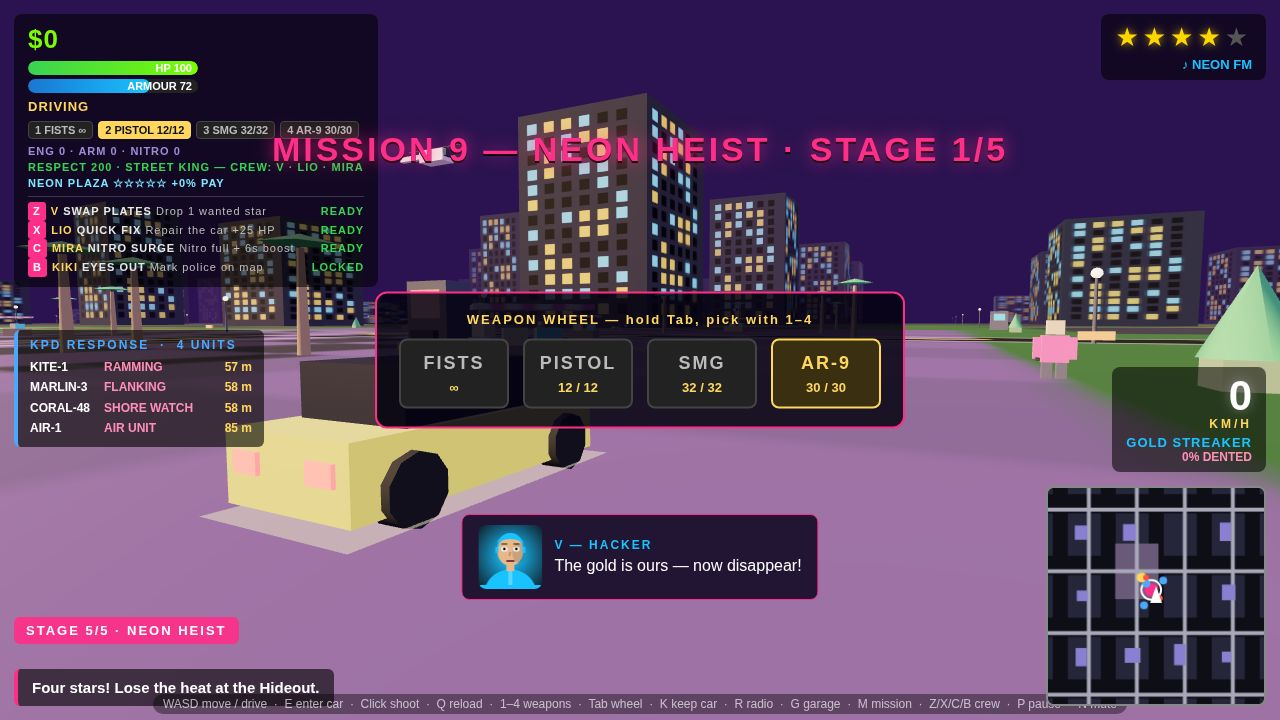
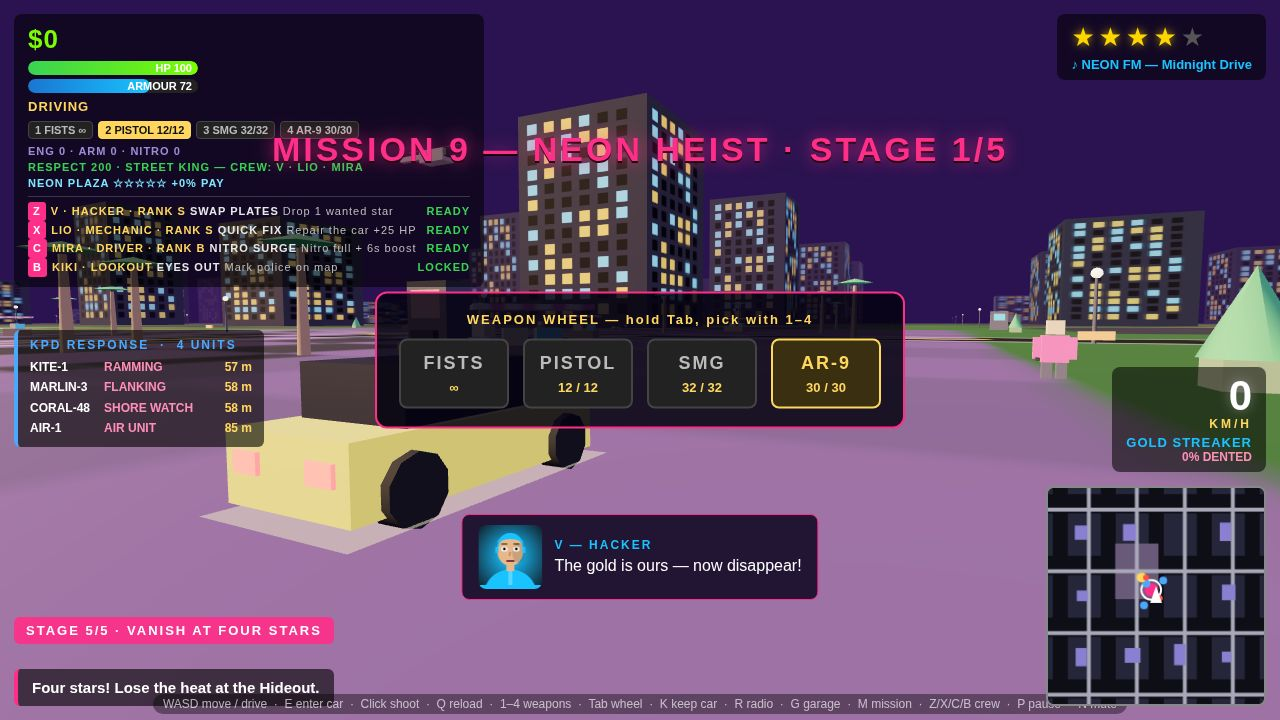
Final pass vs r1: named mission stages, crew rank letters, radio song lines, denser cover

Changed region(s): [[0.0312, 0.0, 0.375, 0.3972], [0.8125, 0.0, 0.9688, 0.1222], [0.0938, 0.8556, 0.2812, 0.9167]]

diff --git a/game/src/shots.js b/game/src/shots.js
@@ -64,9 +64,10 @@ const NV_SHOTS = {
         G.scene.add(c.group); G.cars.push(c); NV_POLICE.cruisers.push(c);
       });
       // Heli overhead + a roadblock ahead on the beach road. The heli
-      // flies low (orbitH) so it reads in frame from the chase camera.
+      // flies low and close (orbitH 12, orbitR 28) so it reads big in
+      // frame from the chase camera, searchlight on the road.
       const heli = NV_ENTITIES.makeHeli(G.scene);
-      heli.callsign = 'AIR-1'; heli.role = 'AIR UNIT'; heli.angle = 4.4; heli.orbitH = 14; heli.orbitR = 35; heli.orbitHold = true;
+      heli.callsign = 'AIR-1'; heli.role = 'AIR UNIT'; heli.angle = 4.4; heli.orbitH = 12; heli.orbitR = 28; heli.orbitHold = true;
       NV_POLICE.heli = heli;
       const rb1 = NV_ENTITIES.makeCar(0xf2f2f2, 'police');
       rb1.group.position.set(-58, 0, 726); rb1.yaw = Math.PI / 2; rb1.group.rotation.y = rb1.yaw;
@@ -82,14 +83,20 @@ const NV_SHOTS = {
       this.stageCrowd(G, [
         [-46, 724, 0], [-32, 738, 0], [28, 722, Math.PI], [44, 738, Math.PI],
         [-70, 730, 0], [60, 730, Math.PI],
+        // Foreground traffic in the lower frame, either side of the hero
+        // car, so the bottom half of the cover is street, not bare asphalt.
+        [-24, 750, 0], [26, 749, Math.PI],
       ], [
         [-52, 694], [-38, 696], [-20, 693], [8, 695], [24, 694], [38, 696], [52, 693], [-8, 697],
         [-64, 700], [70, 700],
+        [-28, 749], [30, 750], [-16, 750], [22, 749],
       ]);
+      // Planters along the beach road by the camera, filling the near corners.
+      G.world.addPlanter(-30, 748); G.world.addPlanter(34, 747); G.world.addBench(-36, 744, Math.PI / 2);
       // The cover frame shows the new HUD: armour bar, crew panel,
-      // stage chip (m1, stage 2/2) and the speedo on the AURA GT.
+      // stage chip (m1, stage 2/2 · LOSE THE HEAT) and the speedo on the AURA GT.
       G.player.armour = 55;
-      G.mission = { def: { id: 'm1', name: 'FAST BREAK', stages: ['go', 'escape'] }, phase: 'escape', target: { x: -900, z: 500 } };
+      G.mission = { def: { id: 'm1', name: 'FAST BREAK', stages: ['go', 'escape'], stageNames: ['STEAL THE PROTOTYPE', 'LOSE THE HEAT'] }, phase: 'escape', target: { x: -900, z: 500 } };
       G.world.setBeacon(-900, 500, 0x39d353); // Hideout: the objective, so the minimap marker points there
       NV_HUD.setObjective(G, 'Lose the heat! Bring the AURA GT to the Hideout.');
       setCam(10, 2.6, 752, -6, 1.2, 741);
@@ -145,9 +152,9 @@ const NV_SHOTS = {
       // Fill the near-side grass between the camera and the avenue.
       G.world.addPlanter(-95, 20); G.world.addPlanter(-115, 22); G.world.addBench(-70, 18, Math.PI / 2);
       // The chase frame shows the new HUD too: armour, crew panel,
-      // stage chip (m3, stage 2/2) and the speedo on the AURA GT.
+      // stage chip (m3, stage 2/2 · SUNSET RUN) and the speedo on the AURA GT.
       G.player.armour = 72;
-      G.mission = { def: { id: 'm3', name: 'GOLDEN HOUR SCORE', stages: ['go', 'drive'] }, phase: 'drive', target: { x: -900, z: 500 } };
+      G.mission = { def: { id: 'm3', name: 'GOLDEN HOUR SCORE', stages: ['go', 'drive'], stageNames: ['GET A CAR', 'SUNSET RUN'] }, phase: 'drive', target: { x: -900, z: 500 } };
       G.world.setBeacon(-900, 500, 0x39d353);
       NV_HUD.setObjective(G, 'Lose the heat! Bring the AURA GT to the Hideout.');
       setCam(-84, 4, 14, -108, 1.5, 0);

diff --git a/game/src/config.js b/game/src/config.js
@@ -44,60 +44,70 @@ const NV_CONFIG = {
     {
       id: 'm1', name: 'FAST BREAK', district: 'garage',
       stages: ['go', 'escape'],
+      stageNames: ['STEAL THE PROTOTYPE', 'LOSE THE HEAT'],
       brief: 'Steal the AURA GT prototype from the garage, then lose the heat at the Hideout.',
       reward: 2500,
     },
     {
       id: 'm2', name: 'DATA BREACH', district: 'plaza',
       stages: ['go', 'hack'],
+      stageNames: ['REACH THE ATM', 'HOLD THE HACK'],
       brief: 'Protect V while she hacks the Central ATM. Survive 90 seconds of security waves.',
       reward: 4000,
     },
     {
       id: 'm3', name: 'GOLDEN HOUR SCORE', district: 'beach',
       stages: ['go', 'drive'],
+      stageNames: ['GET A CAR', 'SUNSET RUN'],
       brief: 'Sunset escape: drive the beach road to the Marina boat while the heli hunts you.',
       reward: 7500,
     },
     {
       id: 'm4', name: 'COURIER INTERCEPT', district: 'beach',
       stages: ['go', 'deliver'],
+      stageNames: ['RUN DOWN THE COURIER', 'DROP THE PACKAGE'],
       brief: 'A rival courier is running Syndicate cash down the beach road. Grab the package and drop it at Neon Plaza.',
       reward: 3500,
     },
     {
       id: 'm5', name: 'VAULT CHAIN', district: 'mixed',
       stages: ['go', 'terminal 1', 'terminal 2', 'terminal 3'],
+      stageNames: ['REACH THE TERMINAL', 'DRAIN THE ATM', 'DRAIN THE GARAGE', 'DRAIN THE DOCK'],
       brief: 'Drain three vault terminals across the city — Central ATM, garage yard, marina dock. Hold E at each one.',
       reward: 5000,
     },
     {
       id: 'm6', name: 'RIVAL RACE', district: 'plaza',
       stages: ['checkpoint 1', 'checkpoint 2', 'checkpoint 3', 'checkpoint 4'],
+      stageNames: ['GREEN LIGHT', 'NEON STRAIGHT', 'PLAZA SWEEP', 'FINAL STRETCH'],
       brief: 'A rival crew driver challenges you to a street race: four checkpoints, first one there wins. Get a car.',
       reward: 5500,
     },
     {
       id: 'm7', name: 'SKYLINE GETAWAY', district: 'beach',
       stages: ['go', 'run'],
+      stageNames: ['HOLD THE LINE', 'BREAK FOR THE HIDEOUT'],
       brief: 'Four stars and nowhere to hide. Survive 60 seconds of heat, then reach the Hideout.',
       reward: 6500,
     },
     {
       id: 'm8', name: 'THE PAYOFF', district: 'marina',
       stages: ['go', 'drive'],
+      stageNames: ['TAKE THE TRUCK', 'FIVE-STAR DELIVERY'],
       brief: 'The final job: drive the payoff truck to the Marina boat under five stars. Do not lose the truck.',
       reward: 10000,
     },
     {
       id: 'm9', name: 'NEON HEIST', district: 'plaza',
       stages: ['scout', 'disable', 'channel', 'grab', 'escape'],
+      stageNames: ['CASE THE PANEL', 'KILL THE SECURITY', 'CRACK THE VAULT', 'GRAB THE GOLD', 'VANISH AT FOUR STARS'],
       brief: 'A four-phase heist at Neon Plaza: scout the panel, kill the security, grab the gold car and run at four stars.',
       reward: 8000,
     },
     {
       id: 'm10', name: 'SYNDICATE FINALE', district: 'marina',
       stages: ['go', 'showdown', 'drive', 'run'],
+      stageNames: ['CHASE THE BOSS', 'THE SHOWDOWN', 'TAKE HIS CAR', 'FIVE-STAR FINALE'],
       brief: 'The boss himself. Chase his car through three checkpoints, take down his guards, and deliver his ride to the Marina.',
       reward: 12000,
     },

diff --git a/game/src/audio.js b/game/src/audio.js
@@ -107,27 +107,43 @@ const NV_AUDIO = {
 
   // --- Radio: three WebAudio synth stations, cycled with R. A 16-step
   // sequencer plays a quiet bass + lead pattern per station; the main loop
-  // calls updateRadio(dt) every frame.
+  // calls updateRadio(dt) every frame. Each station has its own playlist
+  // (r1 style: "OMBO 98.4 — Island Pop"); the song turns over every
+  // ~40 seconds of play.
   radio: {
-    station: 0, step: 0, nextT: 0,
+    station: 0, step: 0, nextT: 0, songIdx: 0, songStart: 0, songLen: 40,
     stations: [
-      { name: 'NEON FM', bpm: 112, wave: 'sawtooth', bass: [55, 0, 55, 0, 65.4, 0, 55, 0, 49, 0, 55, 0, 73.4, 0, 65.4, 0], lead: [220, 0, 0, 261.6, 0, 0, 329.6, 0, 0, 0, 392, 0, 329.6, 0, 261.6, 0] },
-      { name: 'VICE 88', bpm: 100, wave: 'square', bass: [82.4, 0, 98, 0, 82.4, 0, 110, 0, 82.4, 0, 98, 0, 123.5, 0, 98, 0], lead: [0, 0, 164.8, 0, 0, 196, 0, 0, 0, 0, 164.8, 0, 0, 246.9, 0, 0] },
-      { name: 'STATIC 99', bpm: 84, wave: 'triangle', bass: [65.4, 0, 0, 0, 98, 0, 0, 0, 82.4, 0, 0, 0, 110, 0, 98, 0], lead: [130.8, 0, 164.8, 0, 196, 0, 164.8, 0, 130.8, 0, 196, 0, 246.9, 0, 220, 0] },
+      { name: 'NEON FM', bpm: 112, wave: 'sawtooth', songs: ['Midnight Drive', 'Chrome Sunset', 'Palm Static', 'Neon Rain'], bass: [55, 0, 55, 0, 65.4, 0, 55, 0, 49, 0, 55, 0, 73.4, 0, 65.4, 0], lead: [220, 0, 0, 261.6, 0, 0, 329.6, 0, 0, 0, 392, 0, 329.6, 0, 261.6, 0] },
+      { name: 'VICE 88', bpm: 100, wave: 'square', songs: ['Vice City Lights', 'Gold Chain', 'Turbo Heart', 'Night Pursuit'], bass: [82.4, 0, 98, 0, 82.4, 0, 110, 0, 82.4, 0, 98, 0, 123.5, 0, 98, 0], lead: [0, 0, 164.8, 0, 0, 196, 0, 0, 0, 0, 164.8, 0, 0, 246.9, 0, 0] },
+      { name: 'STATIC 99', bpm: 84, wave: 'triangle', songs: ['Island Pop', 'Beach Static', 'Low Tide', 'Salt Air'], bass: [65.4, 0, 0, 0, 98, 0, 0, 0, 82.4, 0, 0, 0, 110, 0, 98, 0], lead: [130.8, 0, 164.8, 0, 196, 0, 164.8, 0, 130.8, 0, 196, 0, 246.9, 0, 220, 0] },
     ],
   },
   radioName() { return this.radio.stations[this.radio.station].name; },
+  currentSong() {
+    const st = this.radio.stations[this.radio.station];
+    return st.songs[this.radio.songIdx % st.songs.length];
+  },
+  radioLine() { return this.radioName() + ' — ' + this.currentSong(); },
   cycleRadio() {
     this.radio.station = (this.radio.station + 1) % this.radio.stations.length;
     this.radio.step = 0;
     this.radio.nextT = 0;
+    this.radio.songIdx = 0;
+    this.radio.songStart = 0;
     return this.radioName();
   },
   updateRadio() {
     if (!this.ctx || this.muted || this.ctx.state !== 'running') return;
     const st = this.radio.stations[this.radio.station];
-    const stepDur = 60 / st.bpm / 4;
     const now = this.ctx.currentTime;
+    // Turn the song over after songLen seconds of play (init the clock
+    // on the first running tick so a suspended context never skips).
+    if (!this.radio.songStart) { this.radio.songStart = now; }
+    else if (now - this.radio.songStart > this.radio.songLen) {
+      this.radio.songIdx = (this.radio.songIdx + 1) % st.songs.length;
+      this.radio.songStart = now;
+    }
+    const stepDur = 60 / st.bpm / 4;
     if (this.radio.nextT < now - 0.2) this.radio.nextT = now + 0.05;
     let guard = 0;
     while (this.radio.nextT < now + 0.12 && guard < 8) {

diff --git a/game/src/hud.js b/game/src/hud.js
@@ -297,7 +297,7 @@ const NV_HUD = {
     const u = G.upgrades || { engine: 0, armor: 0, nitro: 0 };
     const cur = G.player.inCar && G.player.car && G.player.car.owned ? G.player.car.owned.upgrades : u;
     e.upgrades.textContent = 'ENG ' + cur.engine + ' · ARM ' + cur.armor + ' · NITRO ' + cur.nitro;
-    e.radio.textContent = '♪ ' + NV_AUDIO.radioName();
+    e.radio.textContent = '♪ ' + NV_AUDIO.radioLine();
     // Respect + crew, and the district the player is standing in.
     e.respect.textContent = NV_CREW.hudLine(G);
     e.district.textContent = NV_CREW.districtLine(G);
@@ -316,7 +316,7 @@ const NV_HUD = {
     } else {
       e.speedo.classList.add('hidden');
     }
-    // Crew-ability panel: each member, key, ability and cooldown.
+    // Crew-ability panel: each member, key, ability, rank letter and cooldown.
     e.crewpanel.innerHTML = Object.keys(NV_CREW.members).map((key) => {
       const m = NV_CREW.members[key];
       const a = NV_CREW.abilities[key];
@@ -324,8 +324,9 @@ const NV_HUD = {
       const cd = Math.ceil((G.crewCds || {})[key] || 0);
       const state = !got ? 'LOCKED' : cd > 0 ? cd + 's' : 'READY';
       const cls = cd > 0 ? 'crow cd' : 'crow';
+      const rank = got ? ' · RANK ' + NV_CREW.rankLetter(G, key) : '';
       return '<div class="' + cls + '"><span class="ckey">' + a.key.toUpperCase() + '</span>' +
-        '<span class="cname">' + m.name + '</span> ' + a.name +
+        '<span class="cname">' + m.name + ' · ' + m.role + rank + '</span> ' + a.name +
         ' <span class="cdesc">' + a.desc + '</span>' +
         '<span class="cstate">' + state + '</span></div>';
     }).join('');

diff --git a/main.ts b/main.ts
@@ -21,8 +21,10 @@
 // the plaza and beach road, combat, a HUD with a live minimap (bright roads,
 // buildings, police, mission marker), an armour vest that absorbs damage first
 // (blue bar beside HP, refilled at the garage or from vest pickups), a live
-// speedo with the car name and damage %, a mission stage counter (STAGE 2/4)
-// on the HUD, textured ground (sidewalk tiles, crosswalks, plaza checker,
+// speedo with the car name and damage %, a mission stage counter (STAGE 2/4 · LOSE THE HEAT)
+// on the HUD, every stage named in-story, crew rank letters (V — HACKER · RANK B) on the
+// crew-ability panel, and a radio song line per station (NEON FM — Midnight Drive) with a
+// rotating playlist, textured ground (sidewalk tiles, crosswalks, plaza checker,
 // beach towels), a start screen and a localStorage save. Put your 3 or 4 PNG or JPEG screenshots
 // in screenshots/ (the first by name is the cover) and run it.
 //

diff --git a/game/src/missions.js b/game/src/missions.js
@@ -26,11 +26,21 @@ const NV_MISSIONS = {
     return { n: i >= 0 ? i + 1 : 1, total };
   },
 
-  // "STAGE 3/5 · NEON HEIST" — the chip the HUD shows while a job runs.
+  // The current stage's in-story name ("WRECK THE REGENT" style), from
+  // the mission def's stageNames list, falling back to the mission name
+  // when a staged shot builds a fake def without one.
+  stageName(G) {
+    const s = this.stageOf(G);
+    if (!s || !G.mission) return '';
+    const names = G.mission.def.stageNames || [];
+    return names[s.n - 1] || G.mission.def.name;
+  },
+
+  // "STAGE 3/5 · WRECK THE REGENT" — the chip the HUD shows while a job runs.
   stageText(G) {
     const s = this.stageOf(G);
     if (!s || !G.mission) return '';
-    return 'STAGE ' + s.n + '/' + s.total + ' · ' + G.mission.def.name;
+    return 'STAGE ' + s.n + '/' + s.total + ' · ' + this.stageName(G);
   },
 
   startMission(G, idx) {

diff --git a/game/css/style.css b/game/css/style.css
@@ -26,7 +26,7 @@ html, body { width: 100%; height: 100%; overflow: hidden; background: #0b0618; f
 .crow { font-size: 11px; font-weight: 700; letter-spacing: 1px; line-height: 1.7; color: #e8e8e8; }
 .crow .ckey { display: inline-block; background: #ff2e88; border-radius: 3px; padding: 0 5px; margin-right: 5px; color: #fff; }
 .crow .cname { color: #ffd75e; }
-.crow .cstate { float: right; color: #39d353; }
+.crow .cstate { float: right; color: #39d353; margin-left: 10px; }
 .crow.cd .cstate { color: #999; }
 .crow .cdesc { color: #bdbdbd; font-weight: 400; }
 #keep-prompt { position: absolute; left: 50%; bottom: 100px; transform: translateX(-50%); background: rgba(25,195,255,0.85); border-radius: 8px; padding: 8px 16px; font-size: 15px; font-weight: 700; }

diff --git a/game/src/crew.js b/game/src/crew.js
@@ -37,6 +37,18 @@ const NV_CREW = {
     };
   },
 
+  // Per-member rank letter (r1 style: "FIXER rank B"): D when the member
+  // joins, then a letter every 25 respect above their unlock threshold —
+  // V can reach S by the finale, Kiki tops out at C.
+  rankLetter(G, key) {
+    const m = this.members[key];
+    if (!m) return '';
+    const letters = ['D', 'C', 'B', 'A', 'S'];
+    const respect = (G.crew && G.crew.respect) || 0;
+    const idx = Math.max(0, Math.min(4, Math.floor((respect - m.at) / 25)));
+    return letters[idx];
+  },
+
   rankName(respect) {
     let name = 'NOBODY';
     for (const r of this.ranks) if (respect >= r.min) name = r.name;
